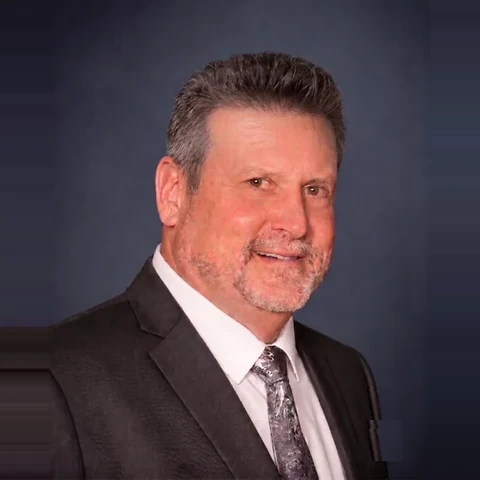
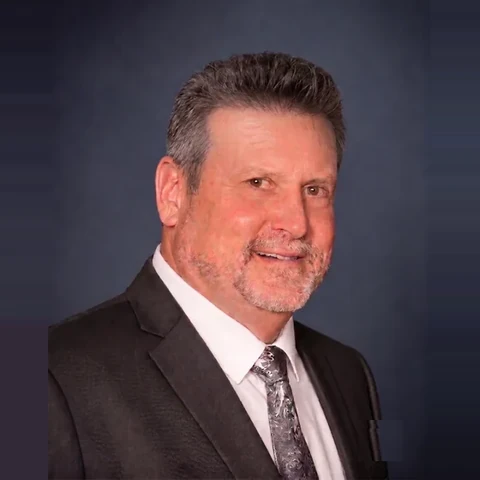
fix: refine Tom's shoulder edges (clean background fill, no suit streak)
Owner: the shoulders looked streaked; refine the edges to match the
(Gemini) reference — clean navy backdrop, natural shoulder, no blur.
Keep image/size identical.

Root cause: the edge-clamp extension replicated his SUIT color
horizontally at shoulder rows, producing horizontal streaks.

New per-row "smart fill":
- Detect background vs suit at each edge row (his blue-gray backdrop has
  blue > red; his suit does not).
- Background rows: extend the real backdrop color.
- Suit rows: fill with the carried-down backdrop color instead of
  streaking the suit — so the widened sides are clean navy backdrop top
  to bottom and his shoulders sit naturally against it.
- No blur anywhere; sparkle still patched out with a hard patch.
- Same 480x480 square, same crop/zoom/proportion. Cache-bust ?v=6.

Tracy and Brandon untouched.

Changed region(s): [[0.0, 0.6875, 0.125, 0.8125], [0.0, 0.9688, 0.0938, 1.0]]

diff --git a/index.html b/index.html
@@ -824,7 +824,7 @@
 
         <div class="team-grid">
           <article class="team-card">
-            <div class="team-photo-wrap"><img src="images/tom-culpepper.webp?v=5" alt="Tom Culpepper, Principal Broker at Homesite Mortgage — NMLS #353539" class="team-photo" width="480" height="480" loading="lazy" /></div>
+            <div class="team-photo-wrap"><img src="images/tom-culpepper.webp?v=6" alt="Tom Culpepper, Principal Broker at Homesite Mortgage — NMLS #353539" class="team-photo" width="480" height="480" loading="lazy" /></div>
             <div class="team-info">
               <h3 class="team-name">Tom Culpepper</h3>
               <div class="team-title">Principal Broker</div>
